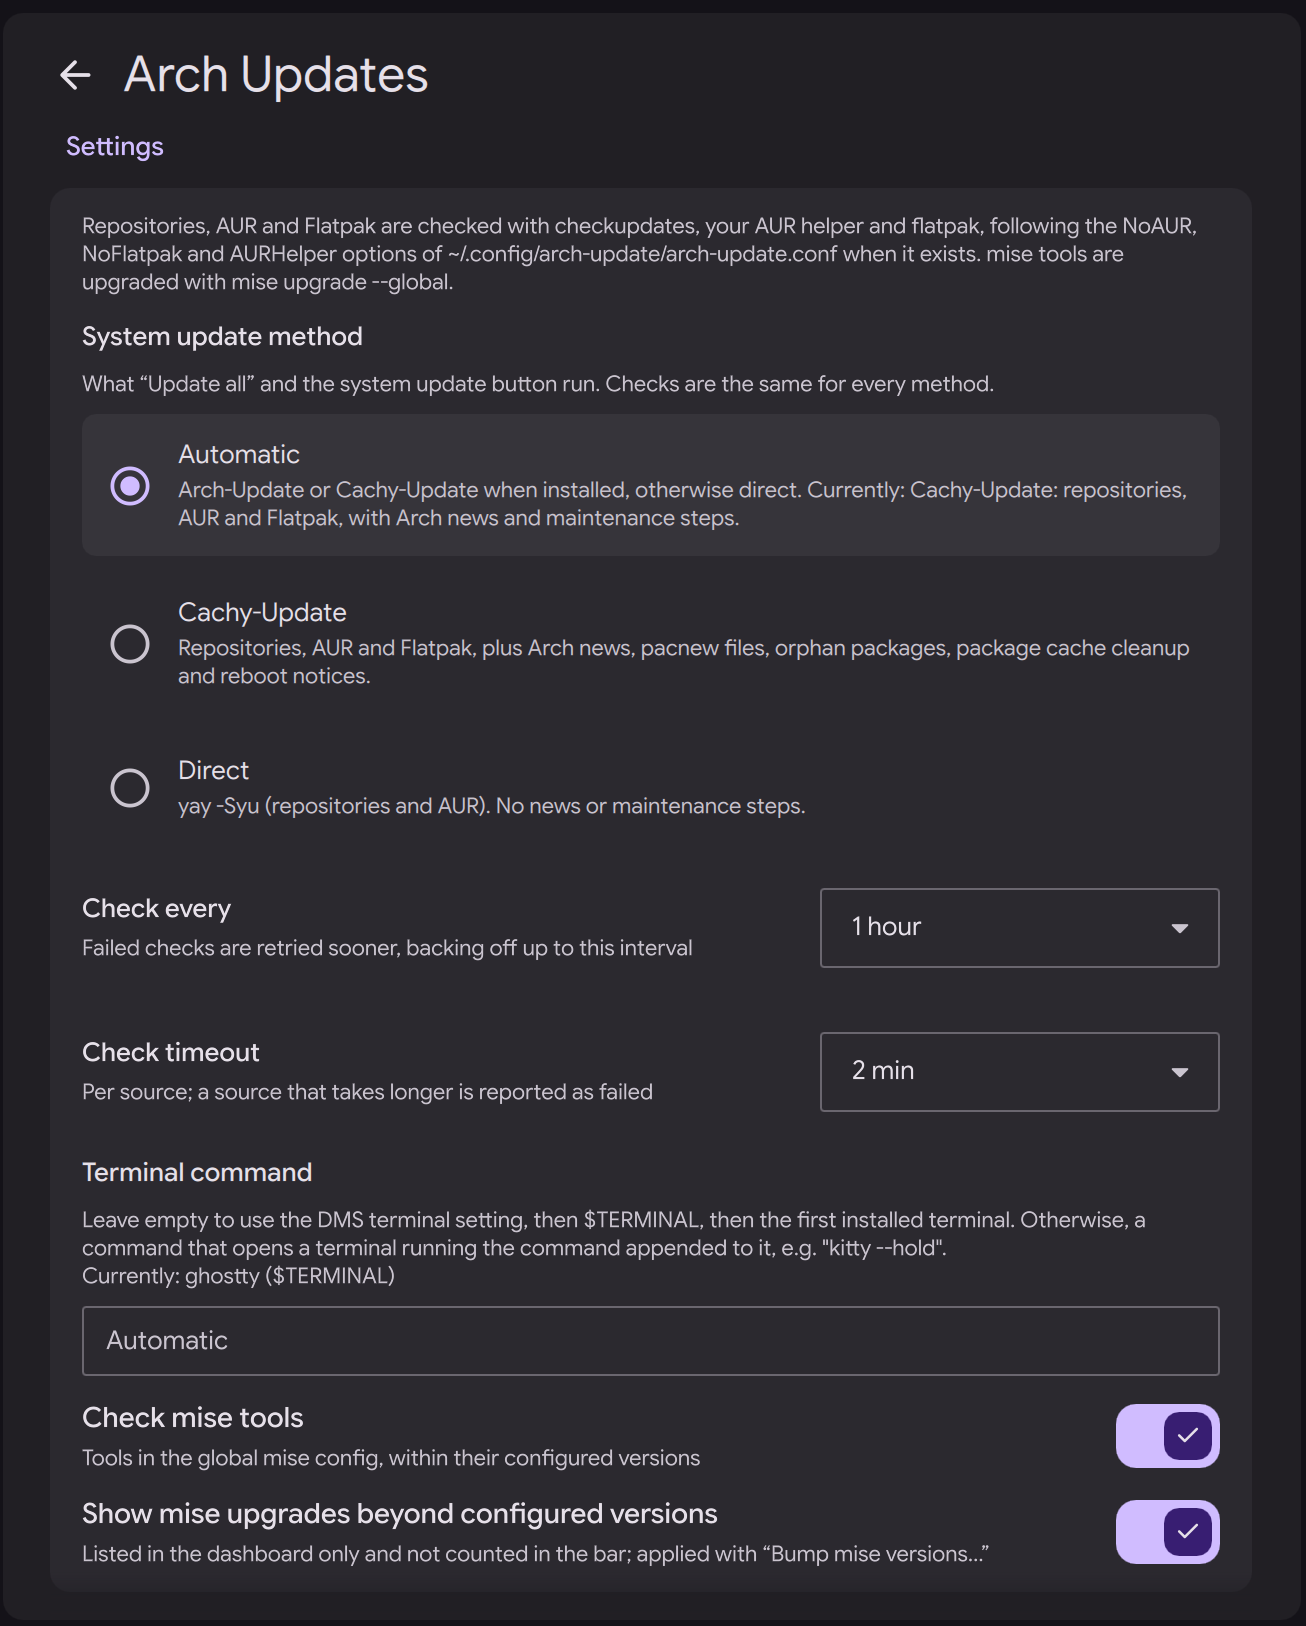
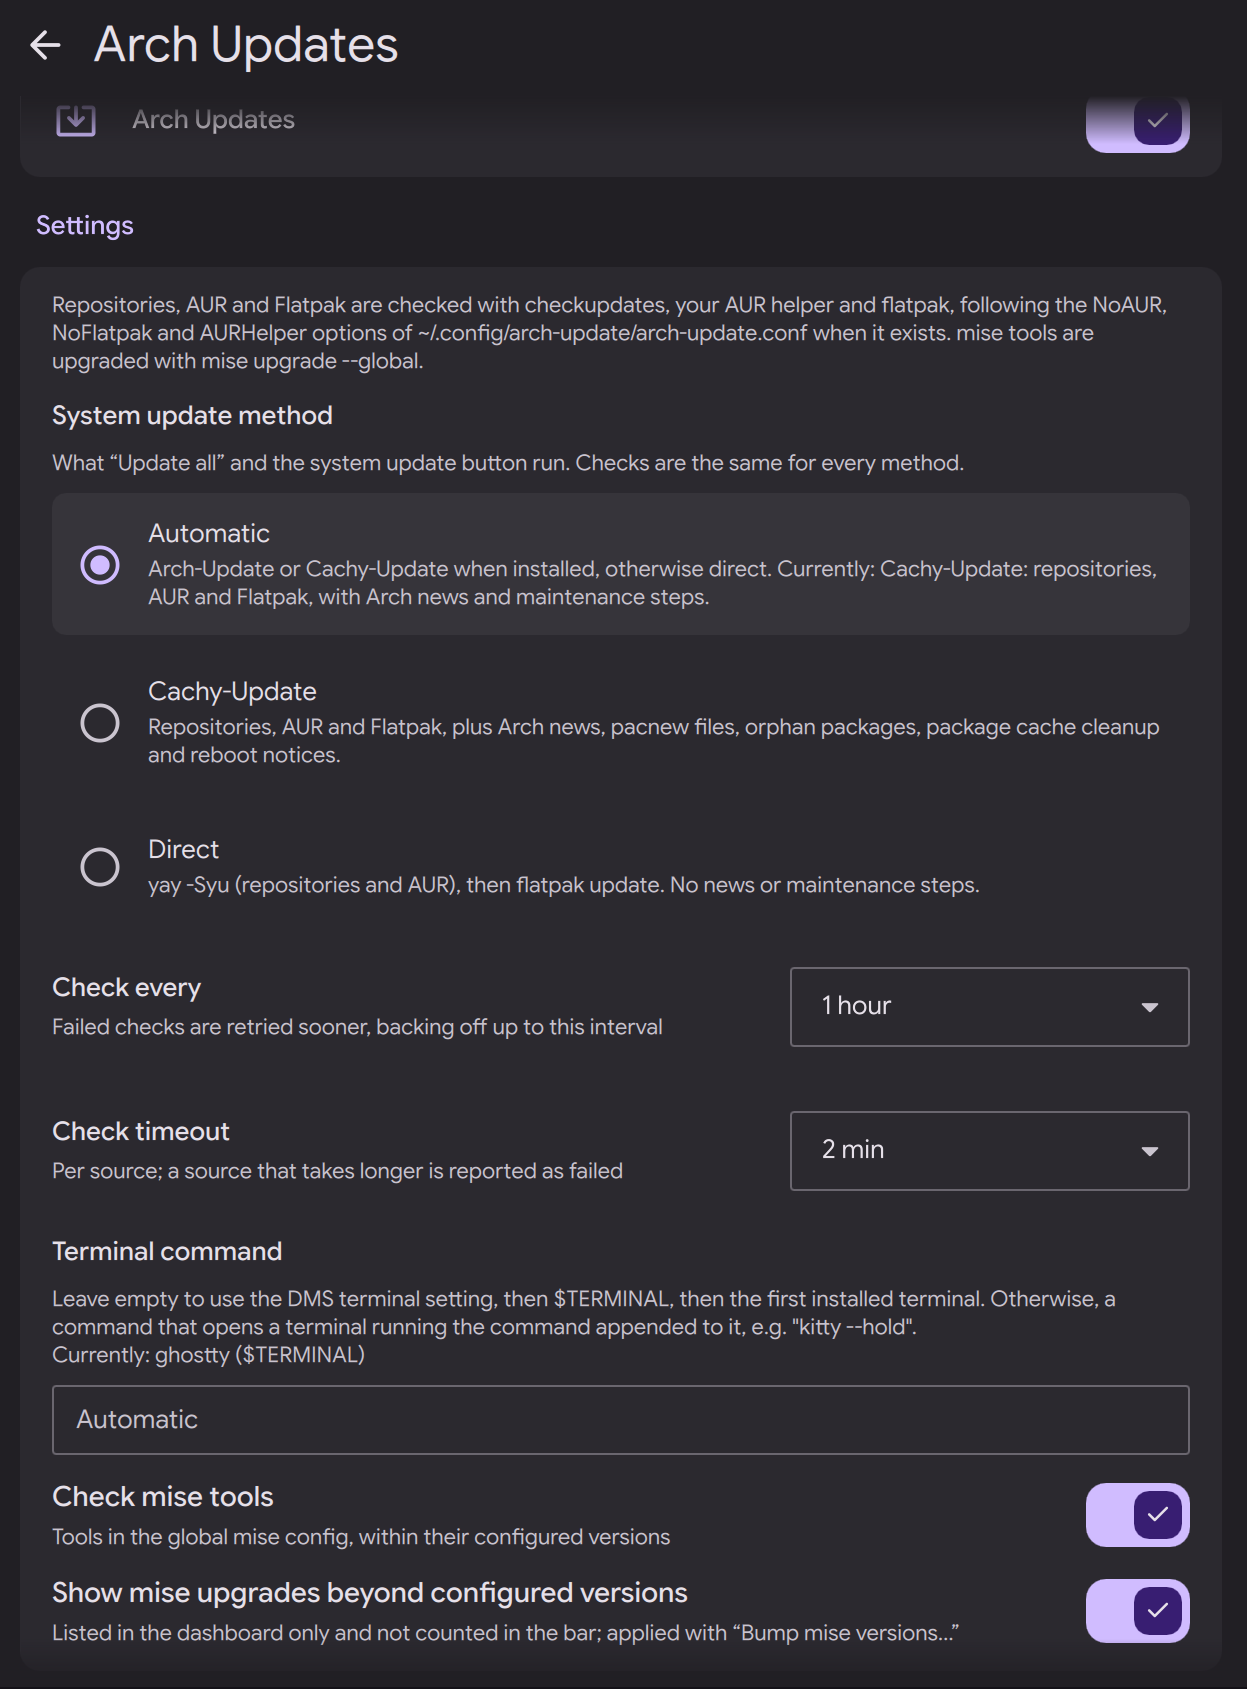
Use an unedited settings page screenshot

diff --git a/README.md b/README.md
@@ -88,7 +88,7 @@ Settings → Plugins → Arch Updates → *System update method*:
 The buttons name the command they run (*Run Cachy-Update*, *Run yay -Syu*…). If the chosen tool
 is uninstalled later, updates fall back to *Direct* and the settings page says so.
 
-<img src="assets/settings.png" width="653" alt="The plugin's settings page: system update method (Automatic, Cachy-Update, Direct), check interval, timeout, terminal command and mise options">
+<img src="assets/settings.png" width="624" alt="The plugin's settings page: system update method (Automatic, Cachy-Update, Direct), check interval, timeout, terminal command and mise options">
 
 ### Terminal
 
